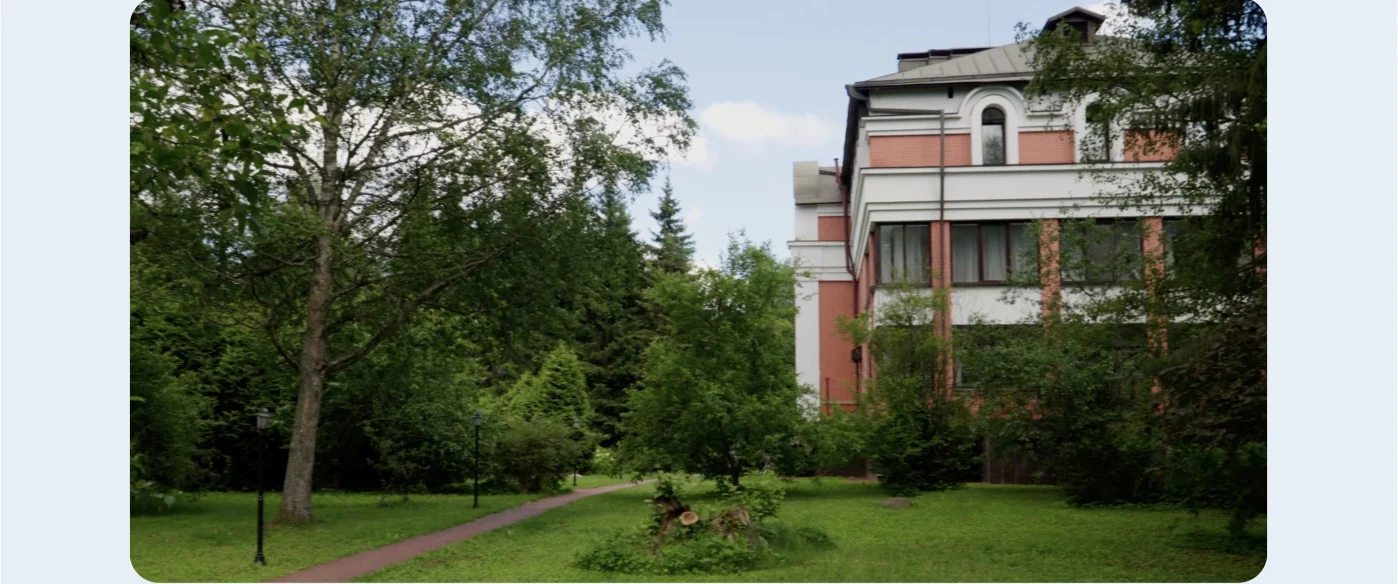
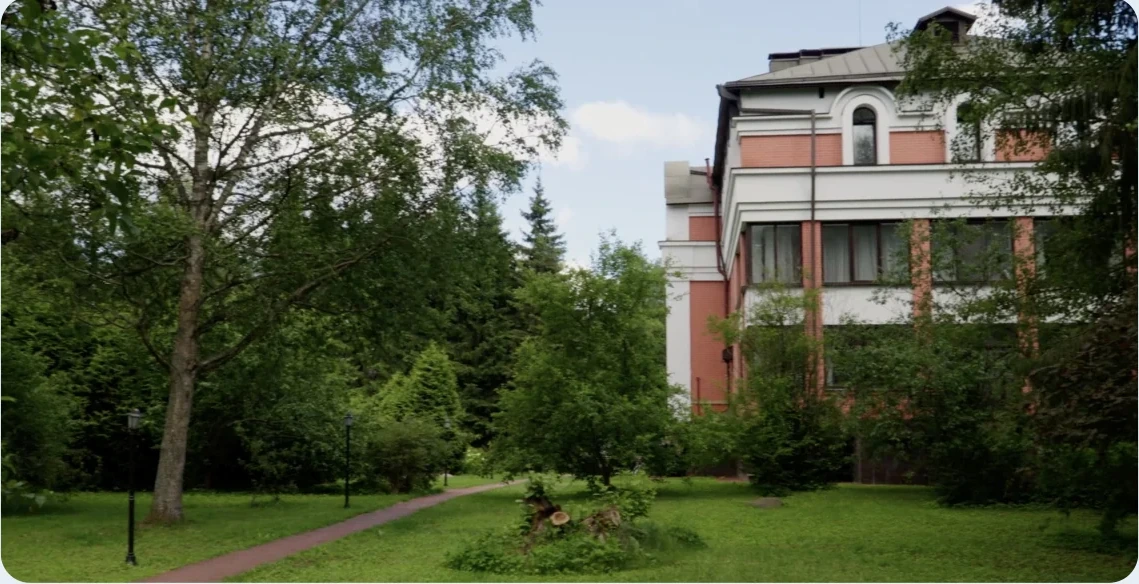
fix(fp-0002): crop pre-reviews images without white margins

diff --git a/workspaces/fp-0002-shpigovsky-v6/src/partials/sections/home-staff-photo.html b/workspaces/fp-0002-shpigovsky-v6/src/partials/sections/home-staff-photo.html
@@ -4,8 +4,8 @@
       <img
         class="home-staff-photo__image"
         src="assets/img/content/pre-reviews/shpigovsky-staff-group.webp"
-        width="1398"
-        height="448"
+        width="1139"
+        height="443"
         alt="Команда специалистов реабилитационного центра"
         loading="lazy"
         decoding="async"

diff --git a/workspaces/fp-0002-shpigovsky-v6/src/partials/sections/home-clinic-landscape.html b/workspaces/fp-0002-shpigovsky-v6/src/partials/sections/home-clinic-landscape.html
@@ -4,7 +4,7 @@
       <img
         class="home-clinic-landscape__image"
         src="assets/img/content/pre-reviews/shpigovsky-clinic-landscape.webp"
-        width="1398"
+        width="1139"
         height="584"
         alt="Здание и территория реабилитационного центра"
         loading="lazy"

diff --git a/workspaces/fp-0002-shpigovsky-v6/scripts/_crop_pre_reviews_images.py b/workspaces/fp-0002-shpigovsky-v6/scripts/_crop_pre_reviews_images.py
@@ -1,0 +1,68 @@
+"""Lossless crop of pre-reviews images — remove baked-in white/light margins."""
+from __future__ import annotations
+
+from pathlib import Path
+
+from PIL import Image
+
+
+def crop_margins(im: Image.Image, threshold: int = 238, tol: int = 15) -> tuple[Image.Image, tuple[int, int, int, int]]:
+    rgb = im.convert("RGB")
+    width, height = rgb.size
+    pixels = rgb.load()
+
+    def is_margin(x: int, y: int) -> bool:
+        red, green, blue = pixels[x, y]
+        if red > threshold and green > threshold and blue > threshold:
+            return True
+        if abs(red - green) < tol and abs(green - blue) < tol and red > 215 and green > 220 and blue > 230:
+            return True
+        return False
+
+    sample_x = max(1, width // 80)
+    sample_y = max(1, height // 80)
+
+    top = 0
+    for y in range(height):
+        if sum(is_margin(x, y) for x in range(0, width, sample_x)) < (width // sample_x) * 0.9:
+            top = y
+            break
+
+    bottom = height - 1
+    for y in range(height - 1, -1, -1):
+        if sum(is_margin(x, y) for x in range(0, width, sample_x)) < (width // sample_x) * 0.9:
+            bottom = y
+            break
+
+    left = 0
+    for x in range(width):
+        if sum(is_margin(x, y) for y in range(0, height, sample_y)) < (height // sample_y) * 0.9:
+            left = x
+            break
+
+    right = width - 1
+    for x in range(width - 1, -1, -1):
+        if sum(is_margin(x, y) for y in range(0, height, sample_y)) < (height // sample_y) * 0.9:
+            right = x
+            break
+
+    box = (left, top, right, bottom)
+    return rgb.crop((left, top, right + 1, bottom + 1)), box
+
+
+def main() -> int:
+    base = Path(__file__).resolve().parents[1] / "src" / "img" / "content" / "pre-reviews"
+    names = ["shpigovsky-staff-group.webp", "shpigovsky-clinic-landscape.webp"]
+
+    for name in names:
+        src = base / name
+        original = Image.open(src)
+        cropped, box = crop_margins(original)
+        print(f"{name}: {original.size} -> {cropped.size} box={box}")
+        cropped.save(src, quality=92, method=6)
+
+    return 0
+
+
+if __name__ == "__main__":
+    raise SystemExit(main())

diff --git a/workspaces/fp-0002-shpigovsky-v6/reviews/main-content/FP-0002-V6-PRE-REVIEWS-IMAGE-FIX-REVIEW.md b/workspaces/fp-0002-shpigovsky-v6/reviews/main-content/FP-0002-V6-PRE-REVIEWS-IMAGE-FIX-REVIEW.md
@@ -1,0 +1,61 @@
+# FP-0002 V6 PRE-REVIEWS IMAGE FIX REVIEW
+
+**Date:** 2026-06-23  
+**Workspace:** `workspaces/fp-0002-shpigovsky-v6/`
+
+## Operator source protection
+
+Operator-canonical `src/` preserved. No restore/reset applied. Operator diff in `home-why-us.html` and Section 03 calibration retained. **Operator values overwritten: 0.**
+
+## Staff image
+
+| Field | Value |
+|-------|-------|
+| Source path | `src/img/content/pre-reviews/shpigovsky-staff-group.webp` |
+| Source type | LOSSLESS_CROP_OF_EXISTING_WEBP |
+| Figma exact node | NOT FOUND (`.fig` not extracted in this pass) |
+| White margin cause | BAKED_IN_EXPORT_CANVAS — light side margins inside asset |
+| Dimensions before | 1398×448 |
+| Dimensions after | 1139×443 |
+| Crop bounds | left 129, top 0, right 1267, bottom 442 |
+| Radius | `var(--radius-main)` on `.home-staff-photo__image` |
+| Object-fit | `cover` |
+
+## Clinic landscape
+
+| Field | Value |
+|-------|-------|
+| Source path | `src/img/content/pre-reviews/shpigovsky-clinic-landscape.webp` |
+| Source type | LOSSLESS_CROP_OF_EXISTING_WEBP |
+| Figma exact node | NOT FOUND |
+| White margin cause | BAKED_IN_EXPORT_CANVAS — white vertical bars left/right |
+| Dimensions before | 1398×584 |
+| Dimensions after | 1139×584 |
+| Crop bounds | left 129, top 0, right 1267, bottom 583 |
+| Radius | `var(--radius-main)` on `.home-clinic-landscape__image` |
+| Object-fit | `cover` |
+
+## New direct values
+
+| Value | Purpose |
+|-------|---------|
+| Crop algorithm thresholds (238/15) | Technical margin detection in `scripts/_crop_pre_reviews_images.py` only |
+
+## Pre-reviews polish
+
+Other pre-reviews blocks unchanged except HTML intrinsic dimensions and image radius. Gallery, Why-us, Feature grid geometry preserved.
+
+## Build result
+
+**Build succeeded** (`npm run build`).
+
+## Screenshots
+
+- `reviews/main-content/pre-reviews-image-fix/FP-0002-V6-STAFF-IMAGE-FIX-DESKTOP.png`
+- `reviews/main-content/pre-reviews-image-fix/FP-0002-V6-STAFF-IMAGE-FIX-MOBILE.png`
+- `reviews/main-content/pre-reviews-image-fix/FP-0002-V6-CLINIC-LANDSCAPE-FIX-DESKTOP.png`
+- `reviews/main-content/pre-reviews-image-fix/FP-0002-V6-CLINIC-LANDSCAPE-FIX-MOBILE.png`
+
+## Final verdict
+
+**CORRECTED_PENDING_OPERATOR_REVIEW** — white margins removed; radius applied; operator geometry preserved.
